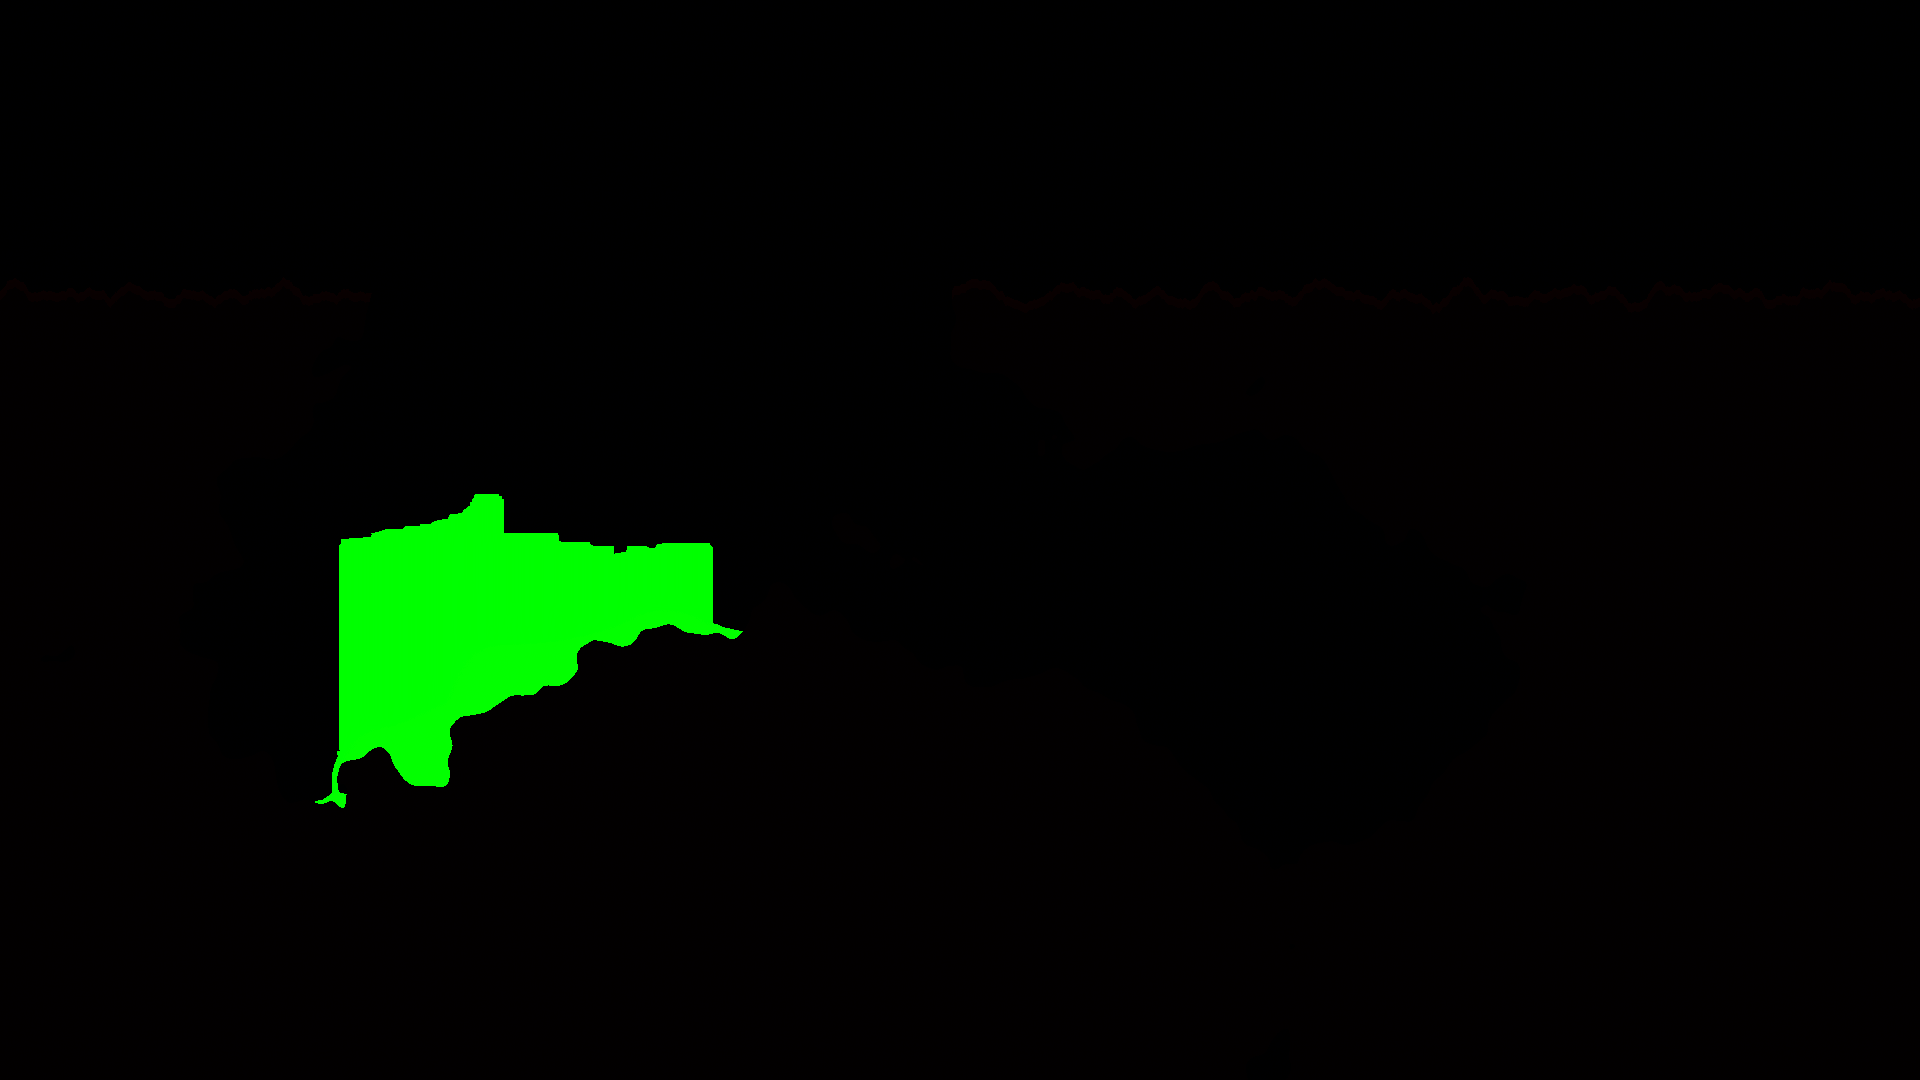
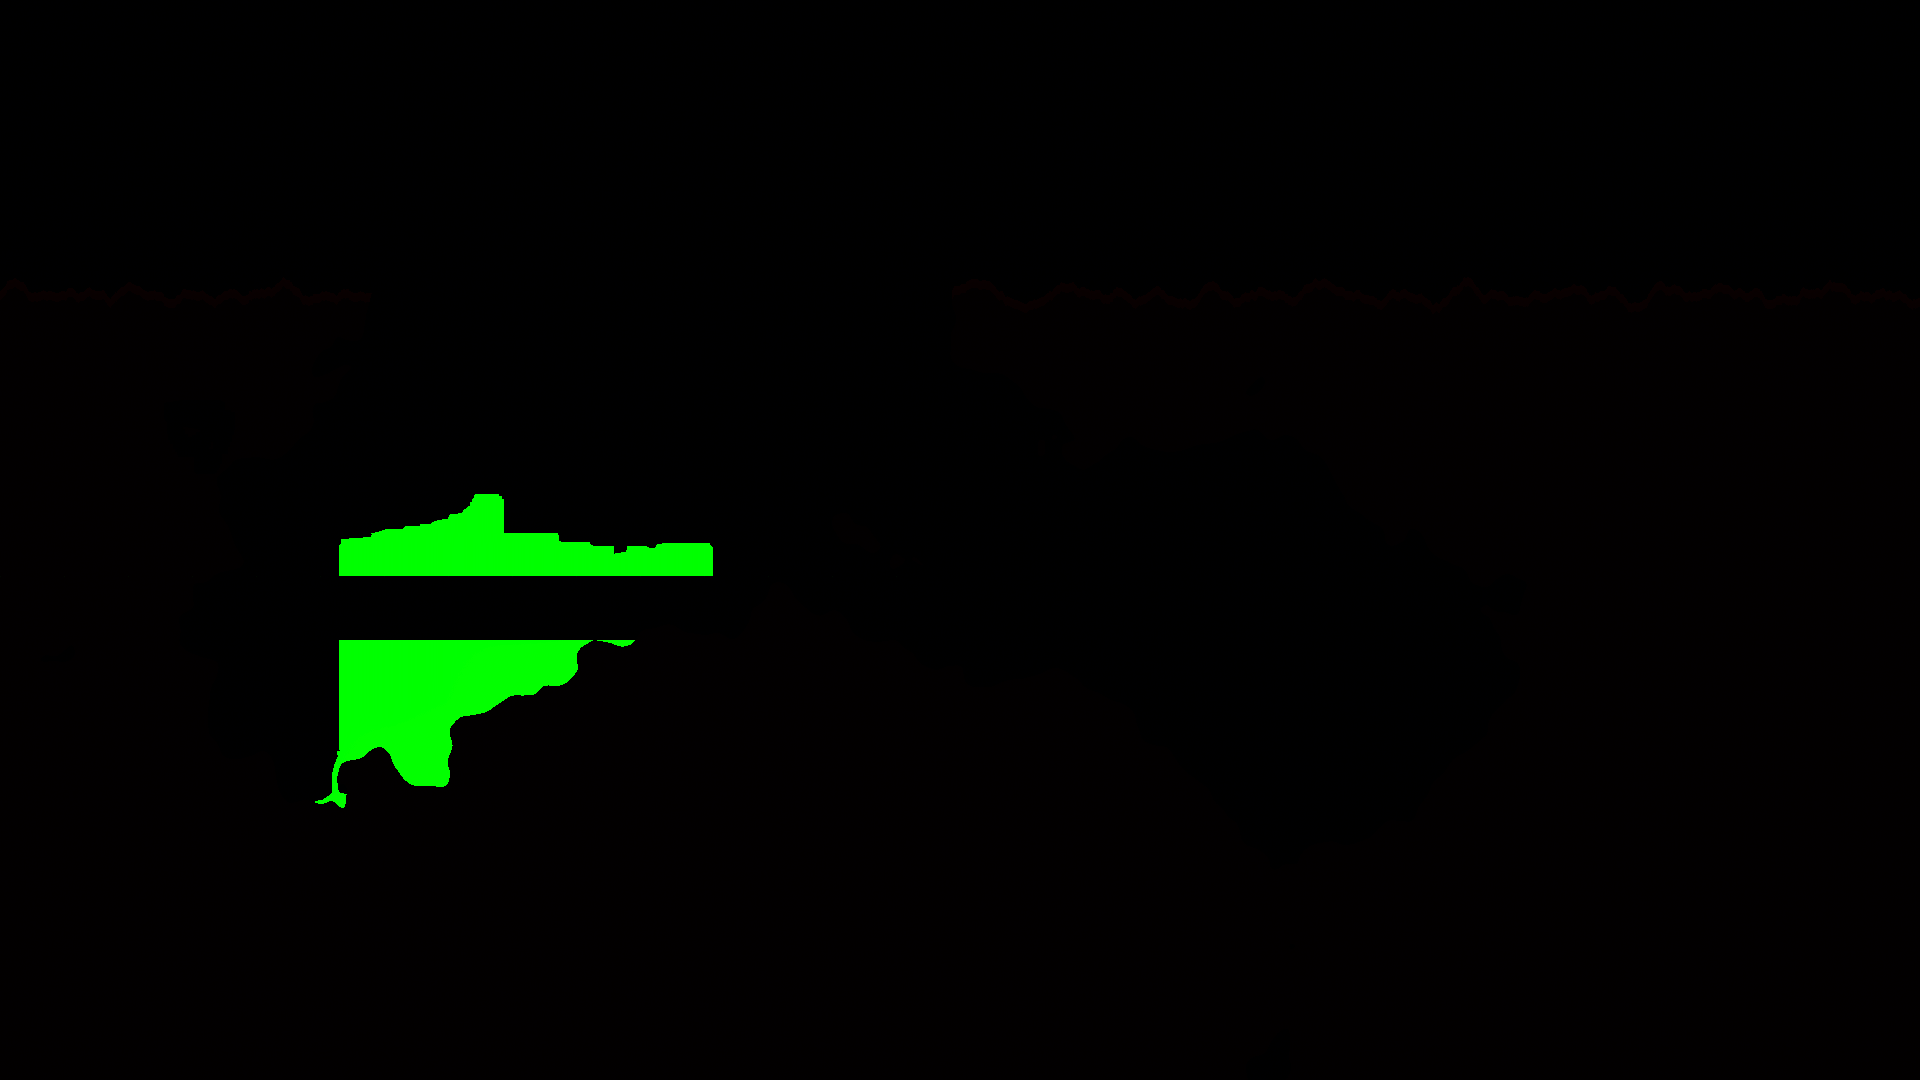
General solver optimizations and caching

Changed region(s): [[0.1562, 0.5194, 0.375, 0.6111]]

diff --git a/src/Physics.hpp b/src/Physics.hpp
@@ -16,9 +16,9 @@ namespace Physics {
         { 80, 200, 230, 255 }, { 100, 220, 240, 255 }, { 140, 240, 250, 255 },
         { 180, 250, 255, 255 }
     };
-    const int WORLD_WIDTH = 1920*4;
-    const int WORLD_HEIGHT = 1080*4;
-    const int chunkSize = 64; 
+    const int WORLD_WIDTH = CA::c_screenWidth;
+    const int WORLD_HEIGHT = CA::c_screenHeight;
+    const int chunkSize = 32; 
     const int MAX_BALL_COUNT_PER_CHUNK = 128;
     const int GRID_W = (WORLD_WIDTH / chunkSize) + 1;
     const int GRID_H = (WORLD_HEIGHT / chunkSize) + 1;
@@ -51,6 +51,40 @@ namespace Physics {
         float restitution;
         float momentOfInertia;  
         Texture texture;
+        Vector2 ballPixels[MAX_PIXELS];
+        
+        void CalculateAABB() {
+            
+
+            float halfW = width*pixelSize/2.0f;
+            float halfH = height*pixelSize/2.0f;
+            Vector2 corners[4] = {
+                {-halfW*2,-halfH*2},
+                {halfW*2,-halfH*2},
+                {halfW*2,halfH*2},
+                {-halfW*2,halfH*2}
+            };
+            float cosA = cosf(rotation);
+            float sinA = sinf(rotation);
+            float minX = 100000000000, minY = 100000000000;
+            float maxY =  -100000000000, maxX = -100000000000;
+            for (int i = 0; i < 4; i++) {
+                float rotX = corners[i].x*cosA-corners[i].y*sinA;
+                float rotY = corners[i].x*sinA+corners[i].y*cosA;
+                float worldX = x+rotX;
+                float worldY = y+rotY;
+                if (worldX < minX) minX = worldX;
+                if (worldX > maxX) maxX = worldX;
+                if (worldY < minY) minY = worldY;
+                if (worldY > maxY) maxY = worldY;
+            }
+                        
+            AABB.x = minX-halfW;
+            AABB.y = minY-halfH;
+            AABB.width = maxX - minX;
+            AABB.height = maxY - minY;
+            
+        }
         void CalculatePixels(std::vector<CA::Tile> &tiles) {
             pixelCount = 0;
             float maxDist = 0;
@@ -99,6 +133,17 @@ namespace Physics {
                 momentOfInertia = 0.001f; 
             }
         }
+        void CalculatePixelRot() {
+            float cosA = cosf(rotation);
+            float sinA = sinf(rotation);
+            for (int p = 0; p < pixelCount; p++) {
+                float rx = pixelPositions[p][0] * cosA - pixelPositions[p][1] * sinA;
+                float ry = pixelPositions[p][0] * sinA + pixelPositions[p][1] * cosA;
+                ballPixels[p].x = x + rx;
+                ballPixels[p].y = y + ry;
+            }
+            
+        }
     };
     struct Chunk {
         int ids[MAX_BALL_COUNT_PER_CHUNK];
@@ -115,7 +160,6 @@ namespace Physics {
             for (int y = 0; y < GRID_H; y++) map->grid[x][y].count = 0;
         }
 
-        #pragma parallel for 
         for (int i = 0; i < (int)map->balls.size(); i++) {
             int cx = (int)(map->balls[i].x / chunkSize);
             int cy = (int)(map->balls[i].y / chunkSize);
@@ -133,16 +177,8 @@ namespace Physics {
         int cx = (int)(ball.x / chunkSize);
         int cy = (int)(ball.y / chunkSize);
         
-        Vector2 ballPixels[MAX_PIXELS];
-        for (int p = 0; p < ball.pixelCount; p++) {
-            float cosA = cosf(ball.rotation);
-            float sinA = sinf(ball.rotation);
-            float rx = ball.pixelPositions[p][0] * cosA - ball.pixelPositions[p][1] * sinA;
-            float ry = ball.pixelPositions[p][0] * sinA + ball.pixelPositions[p][1] * cosA;
-            ballPixels[p].x = ball.x + rx;
-            ballPixels[p].y = ball.y + ry;
-        }
-        
+        float cosA = cosf(ball.rotation);
+        float sinA = sinf(ball.rotation);
         for (int nx = cx - 1; nx <= cx + 1; nx++) {
             for (int ny = cy - 1; ny <= cy + 1; ny++) {
                 if (nx < 0 || nx >= GRID_W || ny < 0 || ny >= GRID_H) continue;
@@ -158,16 +194,6 @@ namespace Physics {
                     float dist = sqrtf(dx*dx + dy*dy);
                     if (dist > ball.collisionRadius + other.collisionRadius) continue;
                     
-                    Vector2 otherPixels[MAX_PIXELS];
-                    for (int p = 0; p < other.pixelCount; p++) {
-                        float cosA = cosf(other.rotation);
-                        float sinA = sinf(other.rotation);
-                        float rx = other.pixelPositions[p][0] * cosA - other.pixelPositions[p][1] * sinA;
-                        float ry = other.pixelPositions[p][0] * sinA + other.pixelPositions[p][1] * cosA;
-                        otherPixels[p].x = other.x + rx;
-                        otherPixels[p].y = other.y + ry;
-                    }
-                    
                     float totalPenX = 0, totalPenY = 0;
                     int overlapCount = 0;
                     float minDist = (ball.pixelSize + other.pixelSize) * 0.5f;
@@ -177,8 +203,8 @@ namespace Physics {
                     
                     for (int p1 = 0; p1 < ball.pixelCount; p1++) {
                         for (int p2 = 0; p2 < other.pixelCount; p2++) {
-                            float dxp = ballPixels[p1].x - otherPixels[p2].x;
-                            float dyp = ballPixels[p1].y - otherPixels[p2].y;
+                            float dxp = ball.ballPixels[p1].x - other.ballPixels[p2].x;
+                            float dyp = ball.ballPixels[p1].y - other.ballPixels[p2].y;
                             float distSq = dxp*dxp + dyp*dyp;
                             if (distSq < minDist*minDist && distSq > 0.0001f) {
                                 float distP = sqrtf(distSq);
@@ -189,8 +215,8 @@ namespace Physics {
                                 totalPenY += ny * pen;
                                 overlapCount++;
                                 
-                                contactSumX += (ballPixels[p1].x + otherPixels[p2].x) * 0.5f;
-                                contactSumY += (ballPixels[p1].y + otherPixels[p2].y) * 0.5f;
+                                contactSumX += (ball.ballPixels[p1].x + other.ballPixels[p2].x) * 0.5f;
+                                contactSumY += (ball.ballPixels[p1].y + other.ballPixels[p2].y) * 0.5f;
                                 contactCount++;
                             }
                         }
@@ -215,12 +241,10 @@ namespace Physics {
                             other.x -= normX * separation * otherRatio;
                             other.y -= normY * separation * otherRatio;
                             for (int p = 0; p < ball.pixelCount; p++) {
-                                float cosA = cosf(ball.rotation);
-                                float sinA = sinf(ball.rotation);
                                 float rx = ball.pixelPositions[p][0] * cosA - ball.pixelPositions[p][1] * sinA;
                                 float ry = ball.pixelPositions[p][0] * sinA + ball.pixelPositions[p][1] * cosA;
-                                ballPixels[p].x = ball.x + rx;
-                                ballPixels[p].y = ball.y + ry;
+                                ball.ballPixels[p].x = ball.x + rx;
+                                ball.ballPixels[p].y = ball.y + ry;
                             }
                         }
                         if (contactCount > 0) {
@@ -301,8 +325,8 @@ namespace Physics {
                         float contactSumX = 0.0f, contactSumY = 0.0f;
                         
                         for (int p = 0; p < ball.pixelCount; p++) {
-                            float dxp = ballPixels[p].x - blockWorldX;
-                            float dyp = ballPixels[p].y - blockWorldY;
+                            float dxp = ball.ballPixels[p].x - blockWorldX;
+                            float dyp = ball.ballPixels[p].y - blockWorldY;
                             float distSq = dxp*dxp + dyp*dyp;
                             
                             if (distSq < (blockRadius + pixelRadius)*(blockRadius + pixelRadius) && distSq > 0.0001f) {
@@ -313,8 +337,8 @@ namespace Physics {
                                 totalPushX += nx * pen;
                                 totalPushY += ny * pen;
                                 pushCount++;
-                                contactSumX += ballPixels[p].x;
-                                contactSumY += ballPixels[p].y;
+                                contactSumX += ball.ballPixels[p].x;
+                                contactSumY += ball.ballPixels[p].y;
                             }
                         }
                         
@@ -328,14 +352,6 @@ namespace Physics {
                                 ball.x += normX * mag;
                                 ball.y += normY * mag;
                                 
-                                for (int p = 0; p < ball.pixelCount; p++) {
-                                    float cosA = cosf(ball.rotation);
-                                    float sinA = sinf(ball.rotation);
-                                    float rx = ball.pixelPositions[p][0] * cosA - ball.pixelPositions[p][1] * sinA;
-                                    float ry = ball.pixelPositions[p][0] * sinA + ball.pixelPositions[p][1] * cosA;
-                                    ballPixels[p].x = ball.x + rx;
-                                    ballPixels[p].y = ball.y + ry;
-                                }
                                 float contactX = contactSumX / pushCount;
                                 float contactY = contactSumY / pushCount;
                                 float rX = contactX - ball.x;

diff --git a/src/main.cpp b/src/main.cpp
@@ -146,14 +146,14 @@ struct Player {
                         int chunkX = updateX / CA::c_chunkSize;
                         int chunkY = updateY / CA::c_chunkSize;
                         if (chunkX < 0 || chunkX >= world->chunksX || chunkY < 0 || chunkY >= world->chunksY) continue;
-                        //world->chunkMap[{chunkX, chunkY}].blocks[updateX % CA::c_chunkSize][updateY % CA::c_chunkSize].lifeTime = world->materials[choosen].lifeTime;
-                        //world->chunkMap[{chunkX, chunkY}].blocks[updateX % CA::c_chunkSize][updateY % CA::c_chunkSize].type = choosen;
-                        world->lightMap[{chunkX, chunkY}].rSource[updateX % CA::c_chunkSize][updateY % CA::c_chunkSize] += float(WHITE.r)/255.0f*4.0f;
-                        world->lightMap[{chunkX, chunkY}].gSource[updateX % CA::c_chunkSize][updateY % CA::c_chunkSize] += float(WHITE.g)/255.0f*4.0f;
-                        world->lightMap[{chunkX, chunkY}].bSource[updateX % CA::c_chunkSize][updateY % CA::c_chunkSize] += float(WHITE.b)/255.0f*4.0f;
+                        world->chunkMap[{chunkX, chunkY}].blocks[updateX % CA::c_chunkSize][updateY % CA::c_chunkSize].lifeTime = world->materials[choosen].lifeTime;
+                        world->chunkMap[{chunkX, chunkY}].blocks[updateX % CA::c_chunkSize][updateY % CA::c_chunkSize].type = choosen;
+                       // world->lightMap[{chunkX, chunkY}].rSource[updateX % CA::c_chunkSize][updateY % CA::c_chunkSize] += float(WHITE.r)/255.0f*4.0f;
+                       // world->lightMap[{chunkX, chunkY}].gSource[updateX % CA::c_chunkSize][updateY % CA::c_chunkSize] += float(WHITE.g)/255.0f*4.0f;
+                       // world->lightMap[{chunkX, chunkY}].bSource[updateX % CA::c_chunkSize][updateY % CA::c_chunkSize] += float(WHITE.b)/255.0f*4.0f;
                         
-                        //world->chunkMap[{chunkX, chunkY}].toBeUpdated = true;
-                        //world->chunkMap[{chunkX, chunkY}].lastUpdate = 0;
+                        world->chunkMap[{chunkX, chunkY}].toBeUpdated = true;
+                        world->chunkMap[{chunkX, chunkY}].lastUpdate = 0;
                     }
                 }
             }
@@ -170,7 +170,6 @@ struct Player {
                         int chunkX = updateX / CA::c_chunkSize;
                         int chunkY = updateY / CA::c_chunkSize;
                         if (chunkX < 0 || chunkX >= world->chunksX || chunkY < 0 || chunkY >= world->chunksY) continue;
-                        std::cout<<world->lightMap[{chunkX, chunkY}].r[updateX % CA::c_chunkSize][updateY % CA::c_chunkSize] <<" "<<world->lightMap[{chunkX, chunkY}].g[updateX % CA::c_chunkSize][updateY % CA::c_chunkSize]<<" "<<world->lightMap[{chunkX, chunkY}].b[updateX % CA::c_chunkSize][updateY % CA::c_chunkSize]<<"\n";
 
                         world->chunkMap[{chunkX, chunkY}].blocks[updateX % CA::c_chunkSize][updateY % CA::c_chunkSize].type = 0;
                         world->chunkMap[{chunkX, chunkY}].toBeUpdated = true;
@@ -398,35 +397,8 @@ public:
                     scaledWidth / 2.0f,
                     scaledHeight / 2.0f
                 };
-
-                float halfW = b.width*b.pixelSize/2.0f;
-                float halfH = b.height*b.pixelSize/2.0f;
-                Vector2 corners[4] = {
-                    {-halfW*2,-halfH*2},
-                    {halfW*2,-halfH*2},
-                    {halfW*2,halfH*2},
-                    {-halfW*2,halfH*2}
-                };
-                float cosA = cosf(b.rotation);
-                float sinA = sinf(b.rotation);
-                float minX = 100000000000, minY = 100000000000;
-                float maxY =  -100000000000, maxX = -100000000000;
-                for (int i = 0; i < 4; i++) {
-                    float rotX = corners[i].x*cosA-corners[i].y*sinA;
-                    float rotY = corners[i].x*sinA+corners[i].y*cosA;
-                    float worldX = b.x+rotX;
-                    float worldY = b.y+rotY;
-                    if (worldX < minX) minX = worldX;
-                    if (worldX > maxX) maxX = worldX;
-                    if (worldY < minY) minY = worldY;
-                    if (worldY > maxY) maxY = worldY;
-                }
-                            
-                b.AABB.x = minX-halfW;
-                b.AABB.y = minY-halfH;
-                b.AABB.width = maxX - minX;
-                b.AABB.height = maxY - minY;
-                
+                b.CalculateAABB();
+                b.CalculatePixelRot();
                 DrawTexturePro(
                     b.texture,
                     (Rectangle){0, 0, (float)b.texture.width, (float)b.texture.height},
@@ -435,7 +407,6 @@ public:
                     rotationDegrees,
                     WHITE
                 );
-            //    DrawRectangleLines((b.AABB.x-player.cameraPosition.x)*player.cameraZoom,(b.AABB.y-player.cameraPosition.y)*player.cameraZoom,b.AABB.width*player.cameraZoom,b.AABB.height*player.cameraZoom,RED);
             }
             player.Draw();
 
@@ -453,7 +424,7 @@ public:
                 std::cout << "  Other: " << (frameDuration - physicsDuration - chunkGenDuration - lightUpdateDuration - drawDuration) << " μs" << std::endl;
                 std::cout << "====================================" << std::endl;
             }
-            
+            std::cout << " Object count: " << map->balls.size()<<"\n";
             frame++;
             
         }
